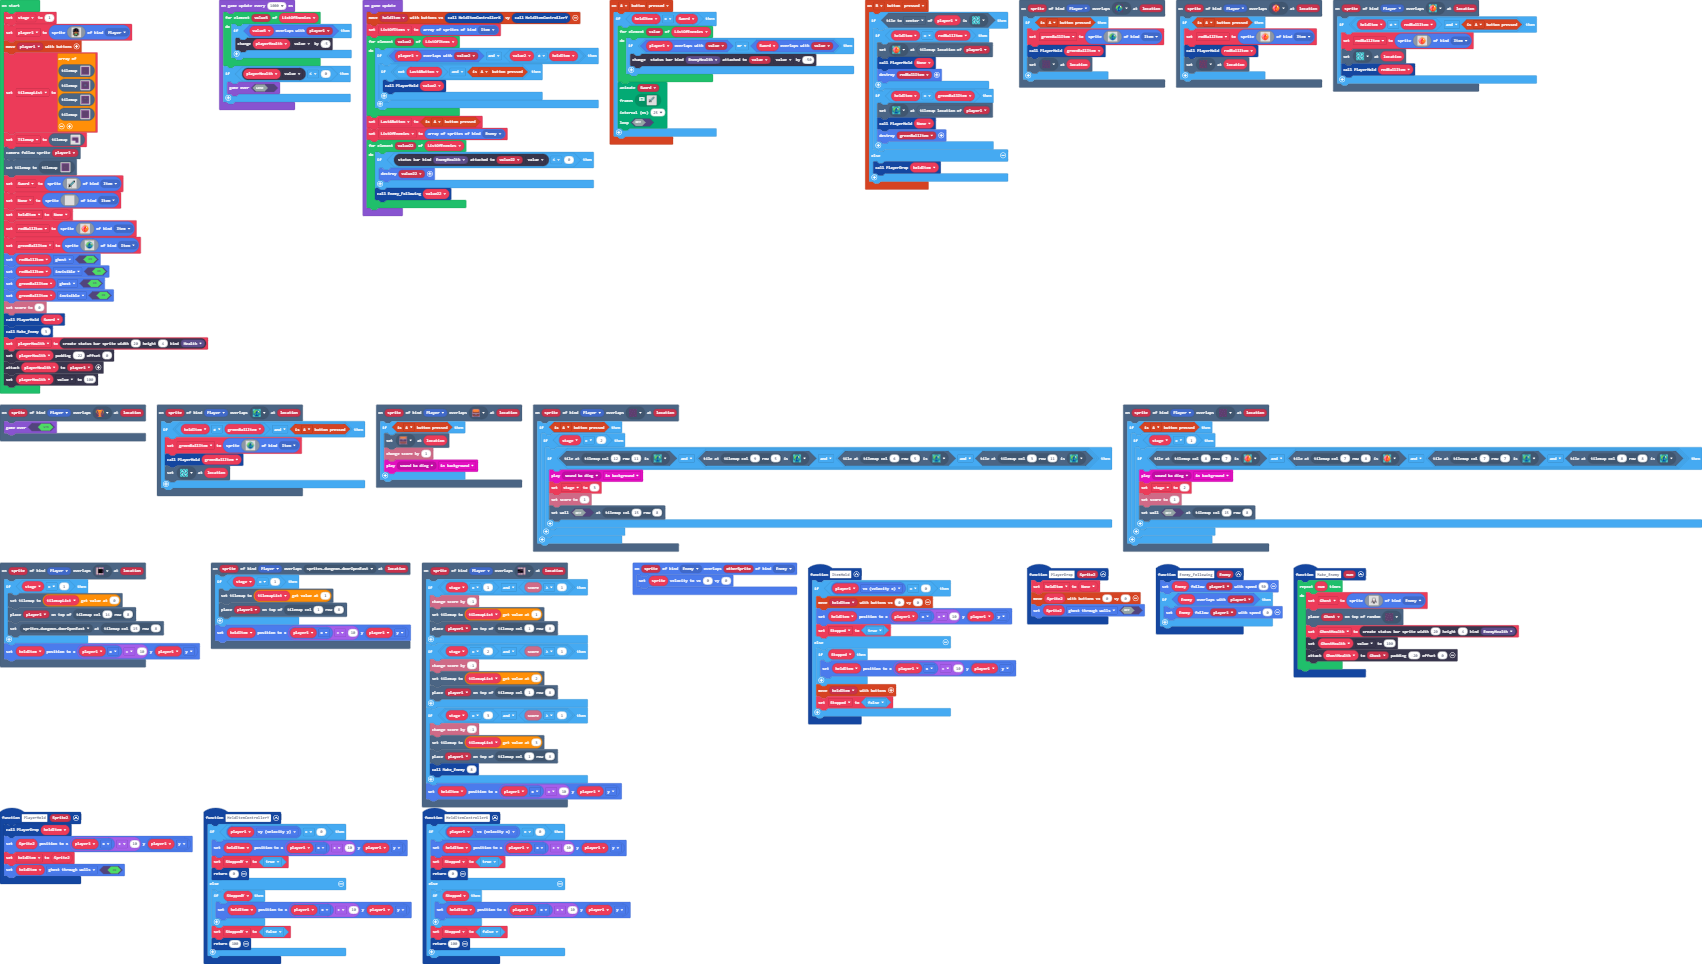
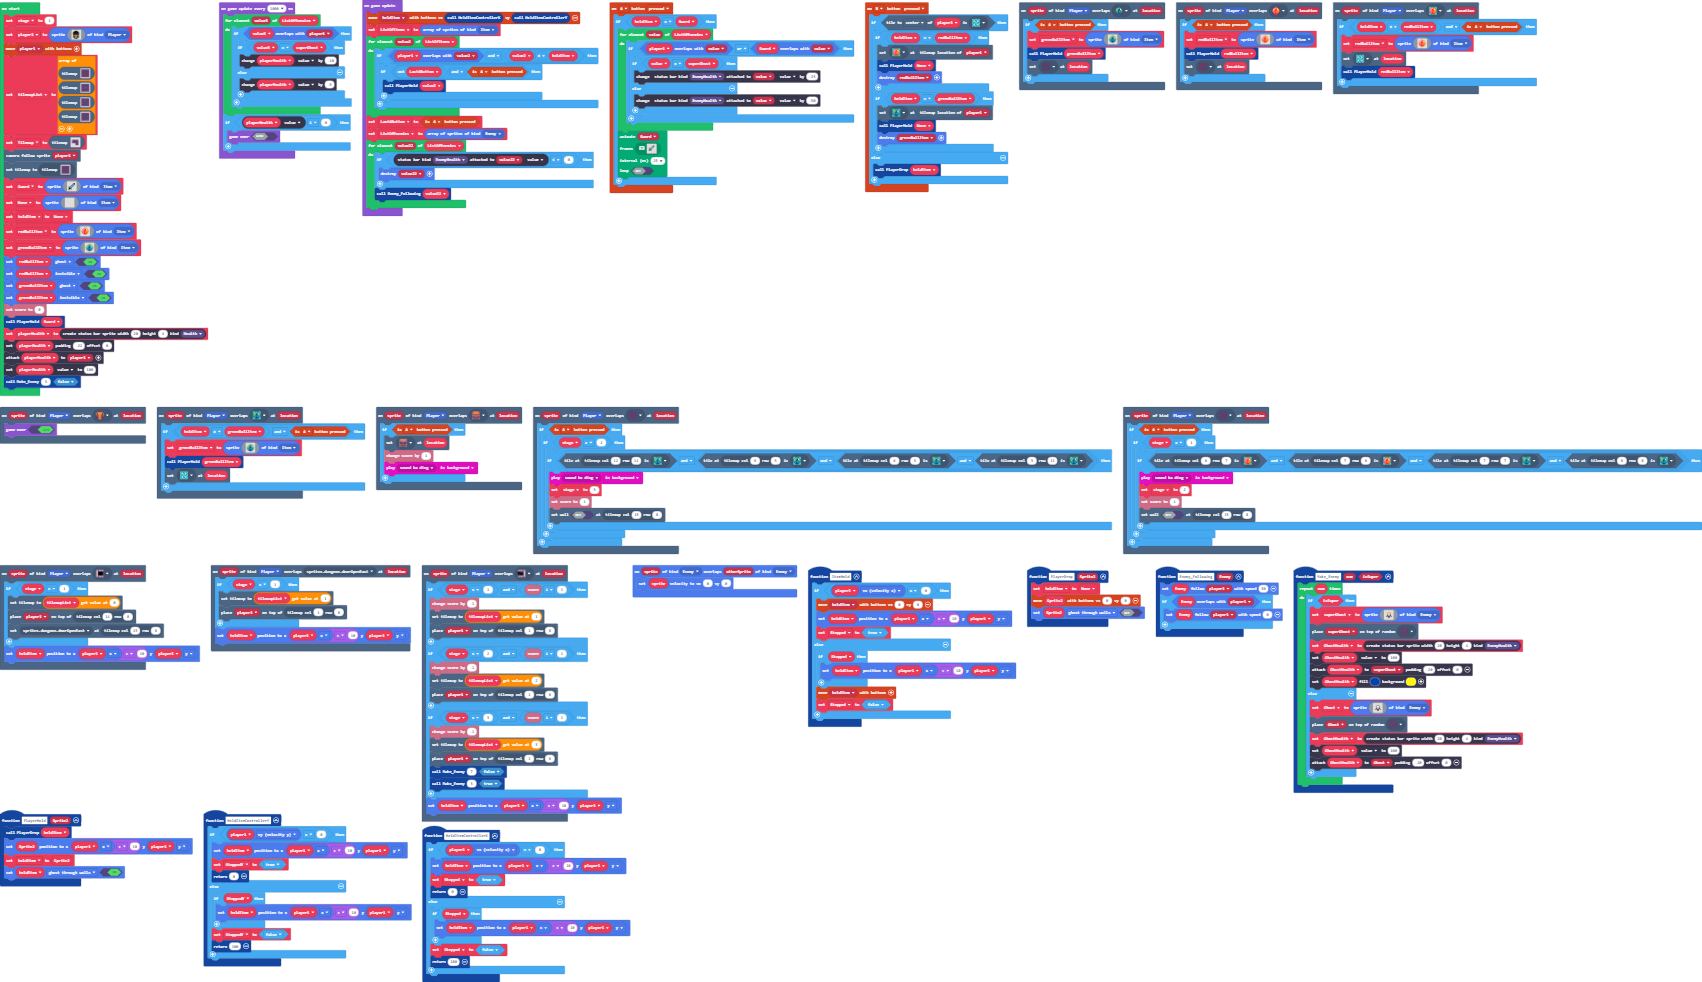
final

Changed region(s): [[0.0, 0.0, 1.0, 1.0], [0.1246, 0.0, 0.9031, 0.2178]]

diff --git a/main.ts b/main.ts
@@ -64,7 +64,8 @@ scene.onOverlapTile(SpriteKind.Player, sprites.dungeon.doorClosedEast, function 
         info.changeScoreBy(-1)
         tiles.setCurrentTilemap(tilemapList[3])
         tiles.placeOnTile(player1, tiles.getTileLocation(1, 8))
-        Make_Enemy(8)
+        Make_Enemy(7, false)
+        Make_Enemy(3, true)
     }
     heldItem.setPosition(player1.x + 10, player1.y)
 })
@@ -125,7 +126,11 @@ controller.A.onEvent(ControllerButtonEvent.Pressed, function () {
     if (heldItem == Sword) {
         for (let value of ListOfEnemies) {
             if (player1.overlapsWith(value) || Sword.overlapsWith(value)) {
-                statusbars.getStatusBarAttachedTo(StatusBarKind.EnemyHealth, value).value += -50
+                if (value == superGhost) {
+                    statusbars.getStatusBarAttachedTo(StatusBarKind.EnemyHealth, value).value += -25
+                } else {
+                    statusbars.getStatusBarAttachedTo(StatusBarKind.EnemyHealth, value).value += -50
+                }
             }
         }
         animation.runImageAnimation(
@@ -346,38 +351,72 @@ controller.A.onEvent(ControllerButtonEvent.Pressed, function () {
         )
     }
 })
-function Make_Enemy (num: number) {
+function Make_Enemy (num: number, isSuper: boolean) {
     for (let index = 0; index < num; index++) {
-        Ghost = sprites.create(img`
-            ........................
-            ........................
-            ........................
-            ........................
-            ..........ffff..........
-            ........ff1111ff........
-            .......fb111111bf.......
-            .......f11111111f.......
-            ......fd11111111df......
-            ......fd11111111df......
-            ......fddd1111dddf......
-            ......fbdbfddfbdbf......
-            ......fcdcf11fcdcf......
-            .......fb111111bf.......
-            ......fffcdb1bdffff.....
-            ....fc111cbfbfc111cf....
-            ....f1b1b1ffff1b1b1f....
-            ....fbfbffffffbfbfbf....
-            .........ffffff.........
-            ...........fff..........
-            ........................
-            ........................
-            ........................
-            ........................
-            `, SpriteKind.Enemy)
-        tiles.placeOnRandomTile(Ghost, sprites.dungeon.darkGroundCenter)
-        GhostHealth = statusbars.create(20, 4, StatusBarKind.EnemyHealth)
-        GhostHealth.value = 100
-        GhostHealth.attachToSprite(Ghost, -20, 0)
+        if (isSuper) {
+            superGhost = sprites.create(img`
+                ........................
+                ........................
+                .............5..........
+                .........5...4..5.......
+                .......5.45ff445.5......
+                .......44444545444......
+                .......5545444444.......
+                .......f11111111f.......
+                ......fd11111111df......
+                ......fd11111111df......
+                ......fddd1111dddf......
+                ......fbdbfddfbdbf......
+                ......fcdcf11fcdcf......
+                .......fb111111bf.......
+                ......fffcdb1bdffff.....
+                ....fc111cbfbfc111cf....
+                ....f1b1b1ffff1b1b1f....
+                ....fbfbffffffbfbfbf....
+                .........ffffff.........
+                ...........fff..........
+                ........................
+                ........................
+                ........................
+                ........................
+                `, SpriteKind.Enemy)
+            tiles.placeOnRandomTile(superGhost, sprites.dungeon.darkGroundCenter)
+            GhostHealth = statusbars.create(20, 4, StatusBarKind.EnemyHealth)
+            GhostHealth.value = 100
+            GhostHealth.attachToSprite(superGhost, -20, 0)
+            GhostHealth.setColor(8, 5)
+        } else {
+            Ghost = sprites.create(img`
+                ........................
+                ........................
+                ........................
+                ........................
+                ..........ffff..........
+                ........ff1111ff........
+                .......fb111111bf.......
+                .......f11111111f.......
+                ......fd11111111df......
+                ......fd11111111df......
+                ......fddd1111dddf......
+                ......fbdbfddfbdbf......
+                ......fcdcf11fcdcf......
+                .......fb111111bf.......
+                ......fffcdb1bdffff.....
+                ....fc111cbfbfc111cf....
+                ....f1b1b1ffff1b1b1f....
+                ....fbfbffffffbfbfbf....
+                .........ffffff.........
+                ...........fff..........
+                ........................
+                ........................
+                ........................
+                ........................
+                `, SpriteKind.Enemy)
+            tiles.placeOnRandomTile(Ghost, sprites.dungeon.darkGroundCenter)
+            GhostHealth = statusbars.create(20, 4, StatusBarKind.EnemyHealth)
+            GhostHealth.value = 100
+            GhostHealth.attachToSprite(Ghost, -20, 0)
+        }
     }
 }
 scene.onOverlapTile(SpriteKind.Player, sprites.dungeon.doorOpenEast, function (sprite, location) {
@@ -503,8 +542,9 @@ let LastAButton = false
 let ListOfItems: Sprite[] = []
 let StoppedY = false
 let Stopped = false
-let GhostHealth: StatusBarSprite = null
 let Ghost: Sprite = null
+let GhostHealth: StatusBarSprite = null
+let superGhost: Sprite = null
 let ListOfEnemies: Sprite[] = []
 let greenBallItem: Sprite = null
 let redBallItem: Sprite = null
@@ -622,11 +662,11 @@ greenBallItem.setFlag(SpriteFlag.Ghost, true)
 greenBallItem.setFlag(SpriteFlag.Invisible, true)
 info.setScore(0)
 PlayerHold(Sword)
-Make_Enemy(3)
 let playerHealth = statusbars.create(20, 4, StatusBarKind.Health)
 playerHealth.setOffsetPadding(0, -22)
 playerHealth.attachToSprite(player1)
 playerHealth.value = 100
+Make_Enemy(3, false)
 game.onUpdate(function () {
     controller.moveSprite(heldItem, HeldItemControllerX(), HeldItemControllerY())
     ListOfItems = sprites.allOfKind(SpriteKind.Item)
@@ -649,7 +689,11 @@ game.onUpdate(function () {
 game.onUpdateInterval(1000, function () {
     for (let value3 of ListOfEnemies) {
         if (value3.overlapsWith(player1)) {
-            playerHealth.value += -5
+            if (value3 == superGhost) {
+                playerHealth.value += -10
+            } else {
+                playerHealth.value += -5
+            }
         }
     }
     if (playerHealth.value <= 0) {

diff --git a/tilemap.g.ts b/tilemap.g.ts
@@ -525,6 +525,82 @@ namespace myTiles {
 2 . . . . . . . . . . . . . . 2 
 2 2 2 2 2 2 2 2 2 2 2 2 2 2 2 2 
 `, [myTiles.transparency16,sprites.dungeon.darkGroundNorthWest0,sprites.dungeon.purpleOuterEast0,sprites.dungeon.purpleOuterNorthEast,sprites.dungeon.purpleOuterNorth1,sprites.dungeon.purpleOuterNorthWest,sprites.dungeon.purpleOuterWest0,sprites.dungeon.purpleOuterSouthEast,sprites.dungeon.purpleOuterSouth0,sprites.dungeon.purpleOuterSouthWest,sprites.dungeon.darkGroundCenter,sprites.dungeon.darkGroundSouthWest0,sprites.dungeon.darkGroundSouthEast0,sprites.dungeon.darkGroundNorthEast0,sprites.dungeon.darkGroundNorth,sprites.dungeon.darkGroundWest,sprites.dungeon.darkGroundSouth,sprites.dungeon.darkGroundEast,myTiles.tile1,sprites.dungeon.doorClosedEast], TileScale.Sixteen);
+            case "level15":
+            case "level15":return tiles.createTilemap(hex`1000100000000000000000000000000000000000000000000000000000000000000000000000000000000000000000000000000000000000000000000000000000000000000000000000000000000000000000000000000000000000000000000000000000000000000000000000000000000000000000000000000000000000000000000000000000000000000000000000000000000000000000000000000000000000000000000000000000000000000000000000000000000000000000000000000000000000000000000000000000000000000000000000000000000000000000000000000000000000000000000000000000000000000000000000000000000000`, img`
+. . . . . . . . . . . . . . . . 
+. . . . . . . . . . . . . . . . 
+. . . . . . . . . . . . . . . . 
+. . . . . . . . . . . . . . . . 
+. . . . . . . . . . . . . . . . 
+. . . . . . . . . . . . . . . . 
+. . . . . . . . . . . . . . . . 
+. . . . . . . . . . . . . . . . 
+. . . . . . . . . . . . . . . . 
+. . . . . . . . . . . . . . . . 
+. . . . . . . . . . . . . . . . 
+. . . . . . . . . . . . . . . . 
+. . . . . . . . . . . . . . . . 
+. . . . . . . . . . . . . . . . 
+. . . . . . . . . . . . . . . . 
+. . . . . . . . . . . . . . . . 
+`, [myTiles.transparency16], TileScale.Sixteen);
+            case "level20":
+            case "level20":return tiles.createTilemap(hex`1000100000000000000000000000000000000000000000000000000000000000000000000000000000000000000000000000000000000000000000000000000000000000000000000000000000000000000000000000000000000000000000000000000000000000000000000000000000000000000000000000000000000000000000000000000000000000000000000000000000000000000000000000000000000000000000000000000000000000000000000000000000000000000000000000000000000000000000000000000000000000000000000000000000000000000000000000000000000000000000000000000000000000000000000000000000000000`, img`
+. . . . . . . . . . . . . . . . 
+. . . . . . . . . . . . . . . . 
+. . . . . . . . . . . . . . . . 
+. . . . . . . . . . . . . . . . 
+. . . . . . . . . . . . . . . . 
+. . . . . . . . . . . . . . . . 
+. . . . . . . . . . . . . . . . 
+. . . . . . . . . . . . . . . . 
+. . . . . . . . . . . . . . . . 
+. . . . . . . . . . . . . . . . 
+. . . . . . . . . . . . . . . . 
+. . . . . . . . . . . . . . . . 
+. . . . . . . . . . . . . . . . 
+. . . . . . . . . . . . . . . . 
+. . . . . . . . . . . . . . . . 
+. . . . . . . . . . . . . . . . 
+`, [myTiles.transparency16], TileScale.Sixteen);
+            case "level21":
+            case "level21":return tiles.createTilemap(hex`1000100000000000000000000000000000000000000000000000000000000000000000000000000000000000000000000000000000000000000000000000000000000000000000000000000000000000000000000000000000000000000000000000000000000000000000000000000000000000000000000000000000000000000000000000000000000000000000000000000000000000000000000000000000000000000000000000000000000000000000000000000000000000000000000000000000000000000000000000000000000000000000000000000000000000000000000000000000000000000000000000000000000000000000000000000000000000`, img`
+. . . . . . . . . . . . . . . . 
+. . . . . . . . . . . . . . . . 
+. . . . . . . . . . . . . . . . 
+. . . . . . . . . . . . . . . . 
+. . . . . . . . . . . . . . . . 
+. . . . . . . . . . . . . . . . 
+. . . . . . . . . . . . . . . . 
+. . . . . . . . . . . . . . . . 
+. . . . . . . . . . . . . . . . 
+. . . . . . . . . . . . . . . . 
+. . . . . . . . . . . . . . . . 
+. . . . . . . . . . . . . . . . 
+. . . . . . . . . . . . . . . . 
+. . . . . . . . . . . . . . . . 
+. . . . . . . . . . . . . . . . 
+. . . . . . . . . . . . . . . . 
+`, [myTiles.transparency16], TileScale.Sixteen);
+            case "level30":
+            case "level30":return tiles.createTilemap(hex`1000100000000000000000000000000000000000000000000000000000000000000000000000000000000000000000000000000000000000000000000000000000000000000000000000000000000000000000000000000000000000000000000000000000000000000000000000000000000000000000000000000000000000000000000000000000000000000000000000000000000000000000000000000000000000000000000000000000000000000000000000000000000000000000000000000000000000000000000000000000000000000000000000000000000000000000000000000000000000000000000000000000000000000000000000000000000000`, img`
+. . . . . . . . . . . . . . . . 
+. . . . . . . . . . . . . . . . 
+. . . . . . . . . . . . . . . . 
+. . . . . . . . . . . . . . . . 
+. . . . . . . . . . . . . . . . 
+. . . . . . . . . . . . . . . . 
+. . . . . . . . . . . . . . . . 
+. . . . . . . . . . . . . . . . 
+. . . . . . . . . . . . . . . . 
+. . . . . . . . . . . . . . . . 
+. . . . . . . . . . . . . . . . 
+. . . . . . . . . . . . . . . . 
+. . . . . . . . . . . . . . . . 
+. . . . . . . . . . . . . . . . 
+. . . . . . . . . . . . . . . . 
+. . . . . . . . . . . . . . . . 
+`, [myTiles.transparency16], TileScale.Sixteen);
         }
         return null;
     })
